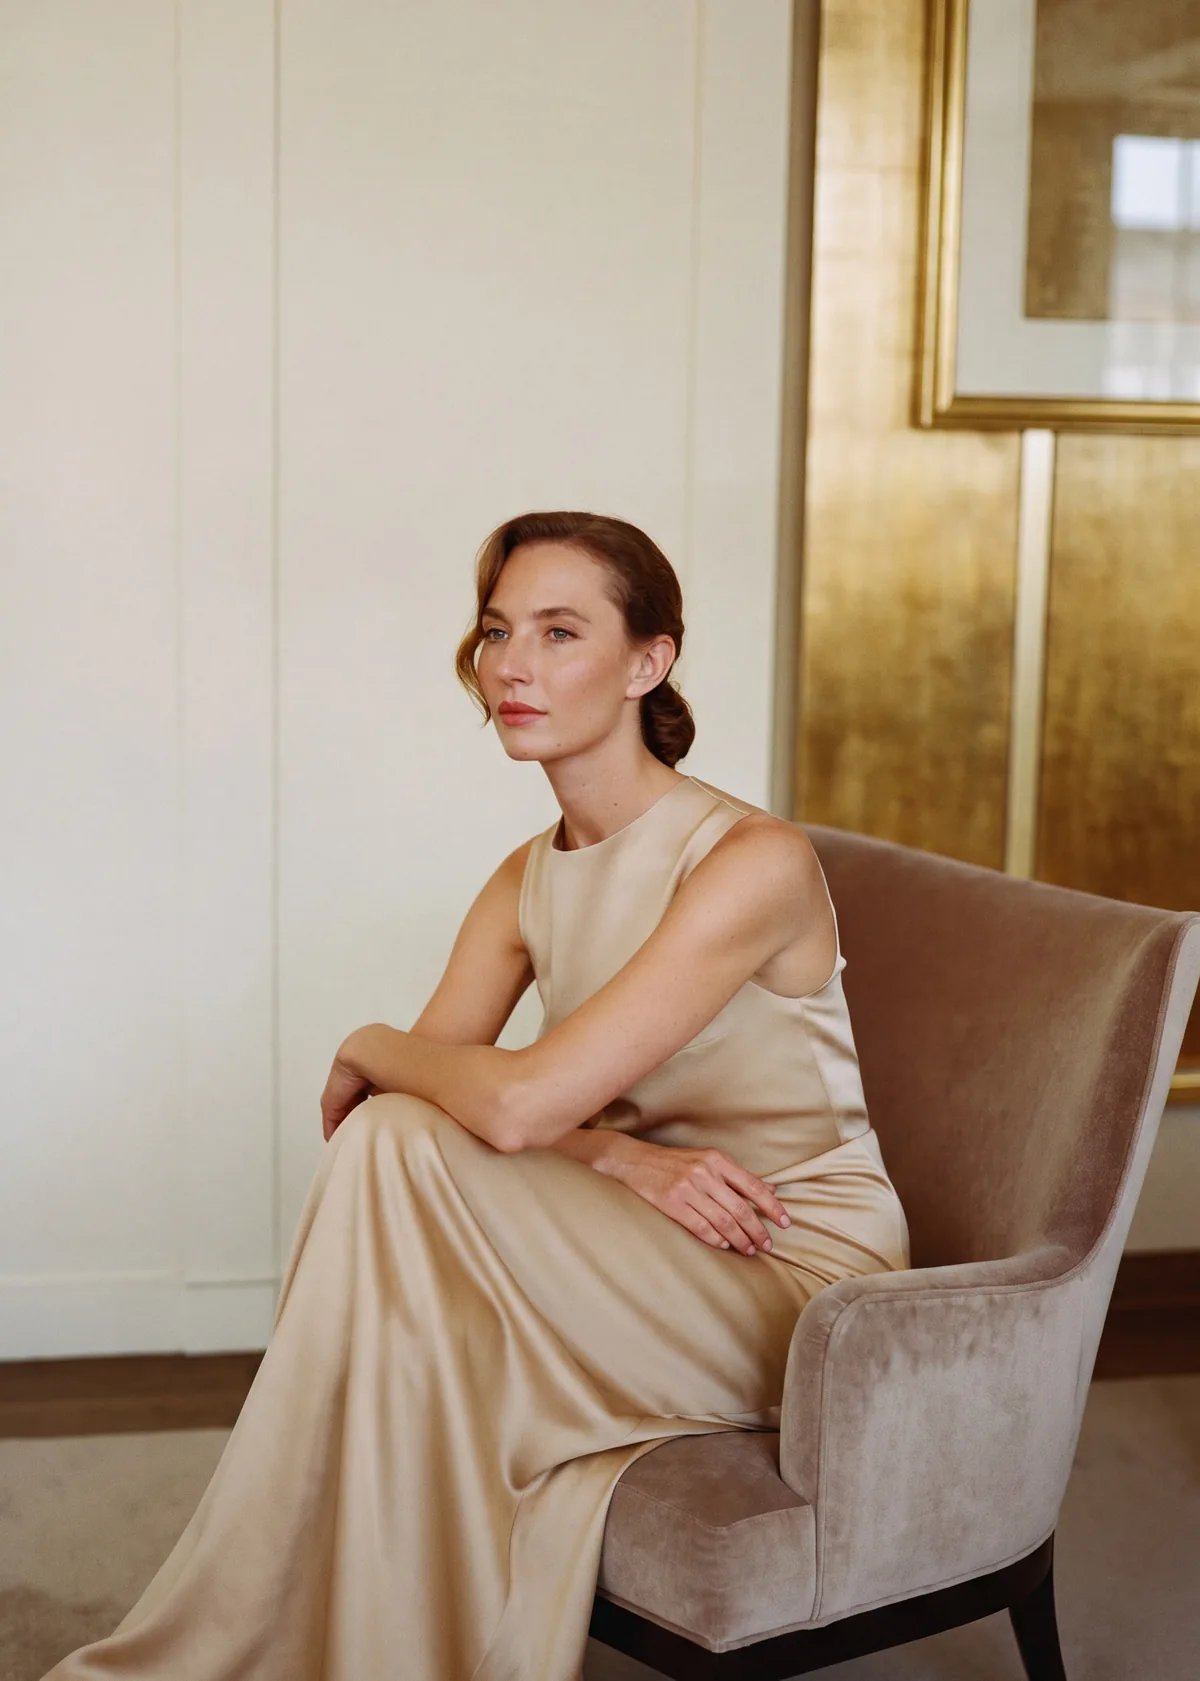
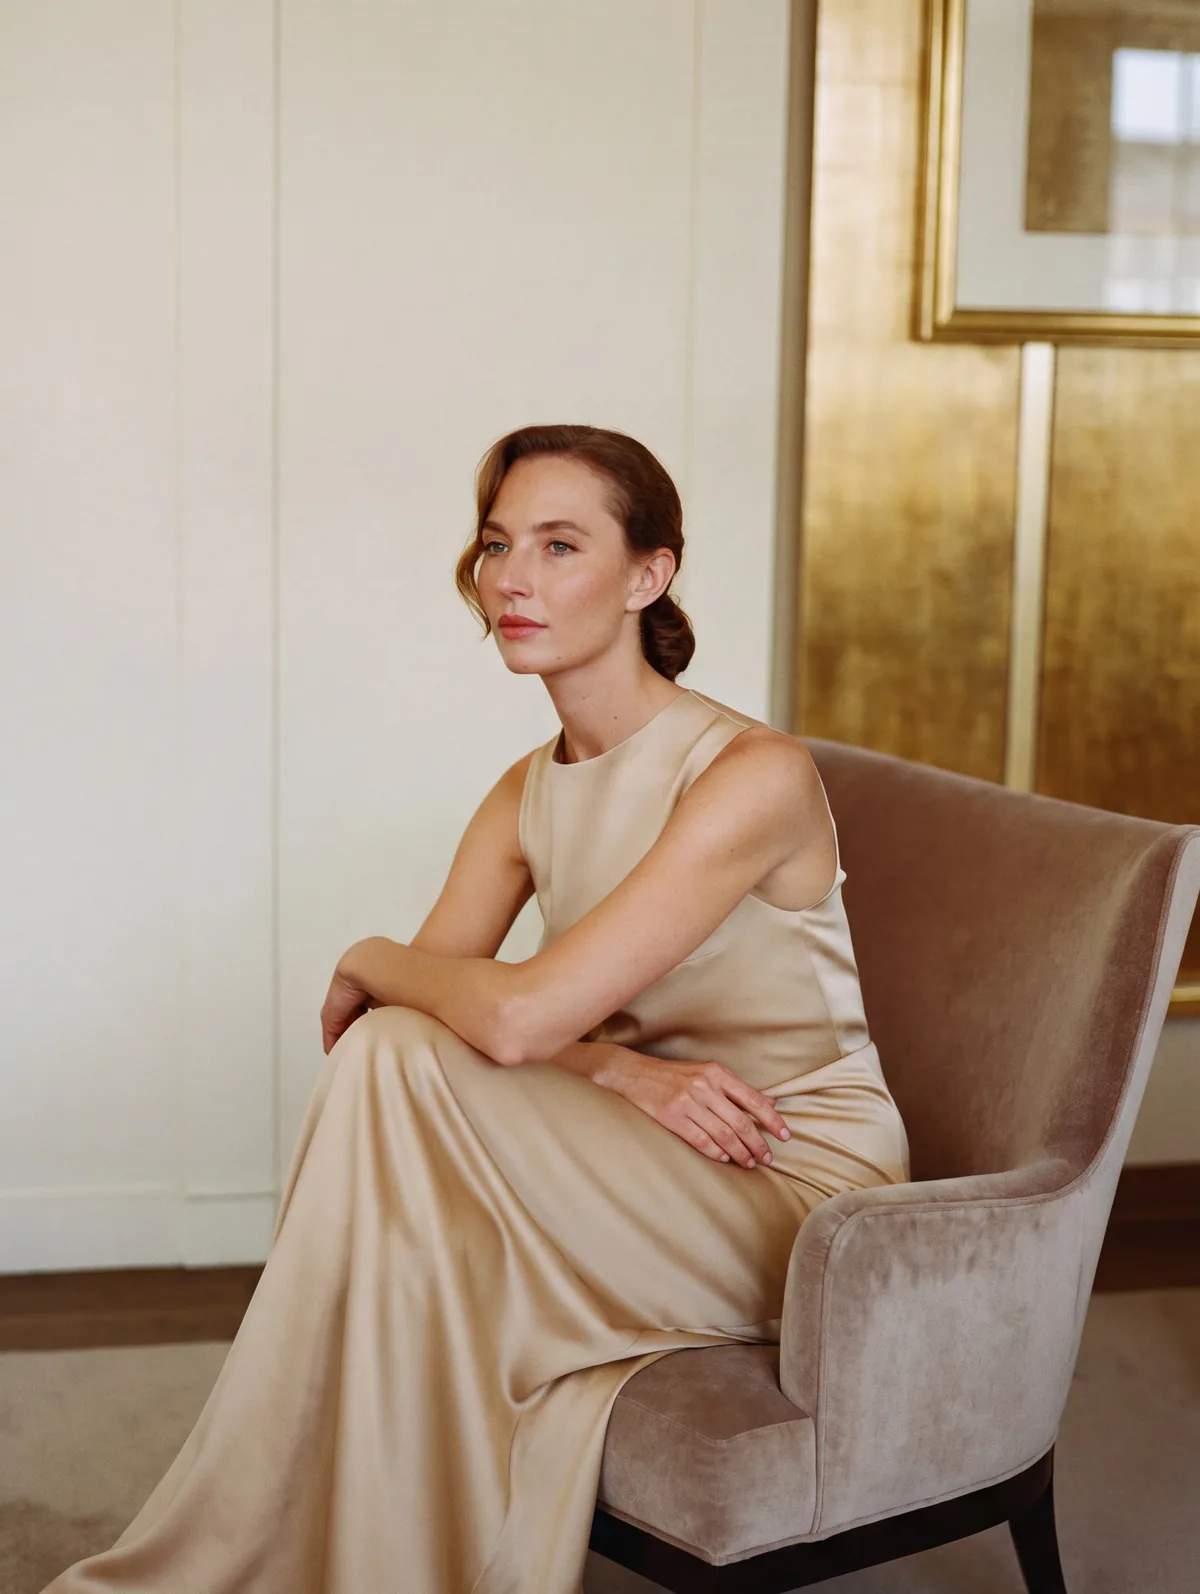
Zoom the narrow hero further, and fix what that exposed
Two levers, because the crop alone had run out. Where the box is
narrower than the picture the box shows the picture's full height, so its
height is the only thing setting how large the subject is drawn — no crop
of the sides can magnify her. So the frame takes more off the wall above
her head, and the box goes from 72svh to 80svh. Together about a fifth
larger than before. The horizontal position moves off centre, because she
sits left of centre and centring clipped the hem of her dress.

That pushed the hero copy 60px below the fold, and it vanished — a 519px
block showing 60px of itself is 11.6%, and the reveal observer wanted
12%. It came back on the first scroll, so nothing looked broken; it just
left a band of empty page under the photograph.

A fraction is the wrong test for a tall element. It asks how much of
itself is showing when the question is whether any of it has arrived. The
observer now also accepts a run of 48 visible pixels, with a zero
threshold added so that test is reachable at all; the fraction still
carries short elements, where 12% of a small card is only a few pixels.
This is the same limitation the sitemap page carries a hand-written
comment about.

Checked nine pages at 390 and 1440: nothing that is on screen is left at
opacity 0, and everything below the fold still animates in on scroll.

diff --git a/components/Reveal.tsx b/components/Reveal.tsx
@@ -25,16 +25,27 @@ export default function Reveal() {
       return () => mo.disconnect()
     }
 
+    // A fraction alone is the wrong test for a tall element. The home hero's
+    // copy is 519px, and sits 60px above the fold on a phone — plainly on
+    // screen, and plainly meant to be read, but 11.6% of itself, so it stayed
+    // at opacity 0 until something scrolled. A run of visible pixels counts as
+    // having arrived whatever the ratio says; the fraction still carries the
+    // short elements, where 12% of a small card is only a few pixels.
+    const ARRIVED_PX = 48
+
     const io = new IntersectionObserver(
       (entries) => {
         entries.forEach((e, i) => {
-          if (e.isIntersecting) {
+          const arrived = e.intersectionRatio >= 0.12 || e.intersectionRect.height >= ARRIVED_PX
+          if (e.isIntersecting && arrived) {
             setTimeout(() => (e.target as HTMLElement).classList.add('in'), (i % 4) * 90)
             io.unobserve(e.target)
           }
         })
       },
-      {threshold: 0.12, rootMargin: '0px 0px -8% 0px'},
+      // the zero threshold is what makes the pixel test reachable: without it
+      // the observer would not report anything until 12% was already showing
+      {threshold: [0, 0.12], rootMargin: '0px 0px -8% 0px'},
     )
 
     // observing an element twice is a no-op, so this can run as often as it likes

diff --git a/app/globals.css b/app/globals.css
@@ -675,10 +675,12 @@ h3{font-family:var(--serif);font-weight:400;font-size:clamp(1.4rem,2.4vw,2rem);l
 }
 @media(max-width:640px){
   /* On a phone the box is narrower than the picture, so its full height shows
-     and the sides crop instead — the subject seated, wall above her clear for
-     the header. */
-  .hero-media{height:min(72svh,620px)}
-  .hero-media img{object-position:center top}
+     and the sides crop instead. That makes the box's height the only thing
+     setting how large the subject is drawn — hence a deep one. The horizontal
+     position is biased left of centre because she sits left of centre in the
+     frame; centring would clip the hem of her dress. */
+  .hero-media{height:min(80svh,700px)}
+  .hero-media img{object-position:20% top}
   .review{flex:0 0 100%}
   /* flatten head wrappers so arrows can drop below the card */
   .reviews{display:flex;flex-direction:column}
